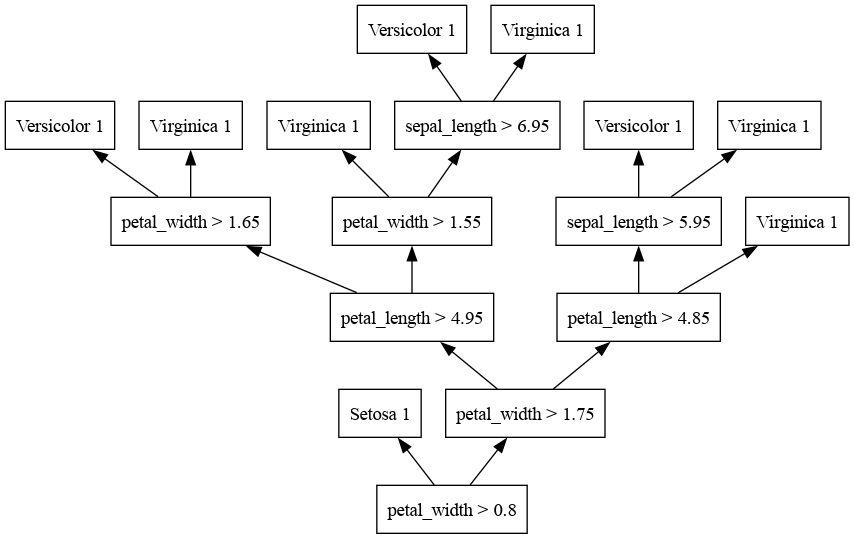
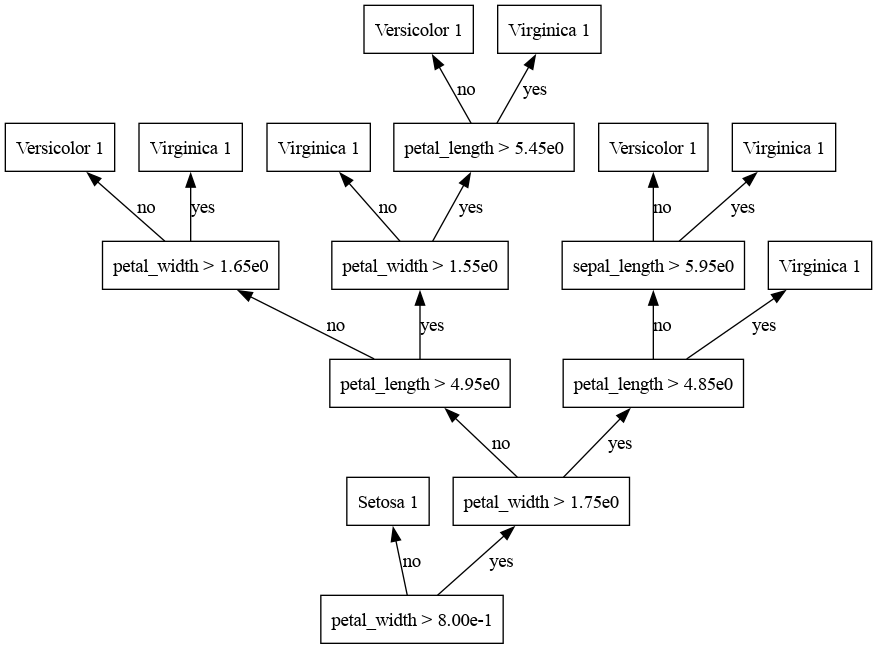
prettified print

Changed region(s): [[0.0, 0.0, 1.0, 1.0]]

diff --git a/src/btree.rs b/src/btree.rs
@@ -205,12 +205,13 @@ impl Display for DotNode{
 
 struct DotEdge{
     first: String,
-    second: String
+    second: String,
+    label: String
 }
 
 impl Display for DotEdge{
     fn fmt(&self, f: &mut fmt::Formatter) -> fmt::Result {
-        write!(f,"{} -> {}",self.first,self.second)
+        write!(f,"{} -> {} [label=\"{}\"]",self.first,self.second,self.label)
     }
 }
 
@@ -242,8 +243,8 @@ impl Dot{
         self.nodes.push(node);
     }
 
-    fn add_edge(& mut self, first: String, second: String) -> () {
-        let node = DotEdge{first, second};
+    fn add_edge(& mut self, first: String, second: String, label: String) -> () {
+        let node = DotEdge{first, second, label};
         self.edges.push(node);
     }
 }
@@ -277,7 +278,12 @@ impl<T: Display> Tree<T>{
             let label = item.value.to_string();
             graph.add_node(name.clone(), label, shape.clone());
             if item.id > 1 {
-                graph.add_edge(parent_name, name.clone());
+                let edgelabel : String= if item.id % 2 == 0{
+                    "yes".into()
+                }else{
+                    "no".into()
+                };
+                graph.add_edge(parent_name, name.clone(),edgelabel);
             }
             if ranks.len() < item.level{
                 ranks.push(DotRank(Vec::new()));

diff --git a/src/lib.rs b/src/lib.rs
@@ -27,7 +27,7 @@ impl Display for Decision{
     fn fmt(&self, f: &mut fmt::Formatter) -> fmt::Result {
         match self.rule {
             Some(ref rule) => {
-                write!(f, "{} > {}", rule.dimension, rule.cutoff)
+                write!(f, "{} > {:.2e}", rule.dimension, rule.cutoff)
             }
             None => {
                 write!(f, "{} {}", self.prediction, self.confidence)
